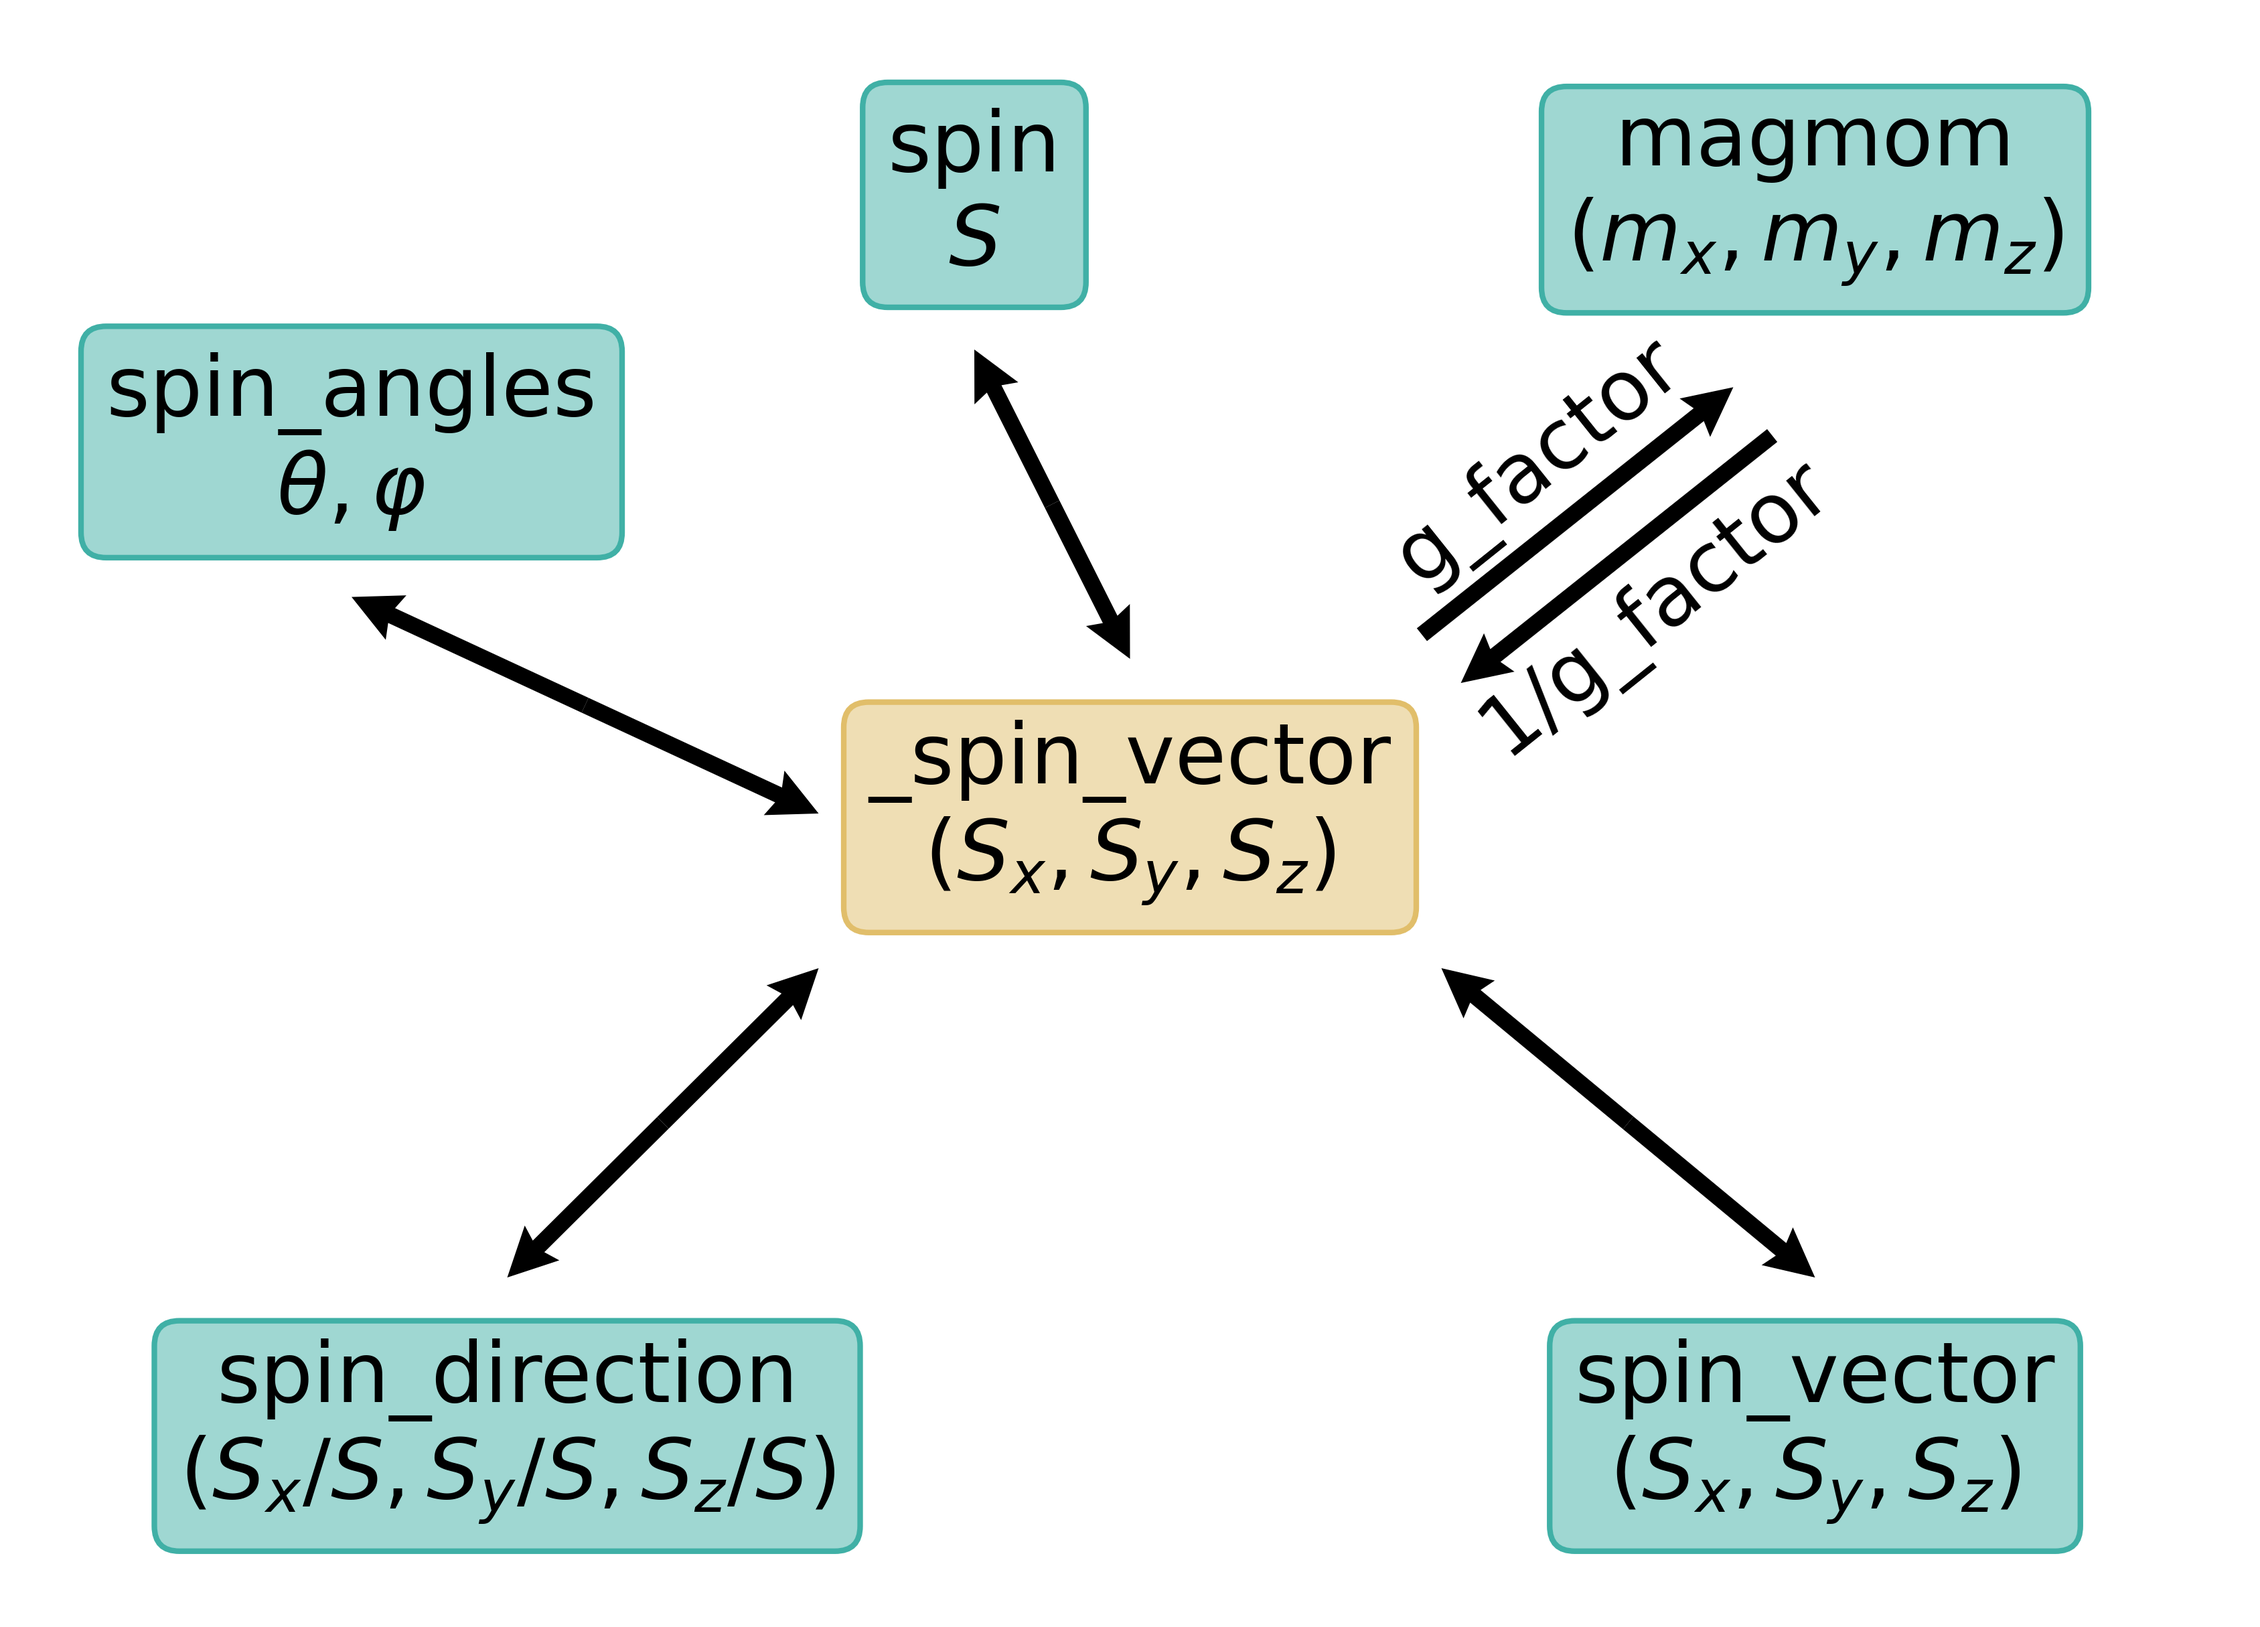
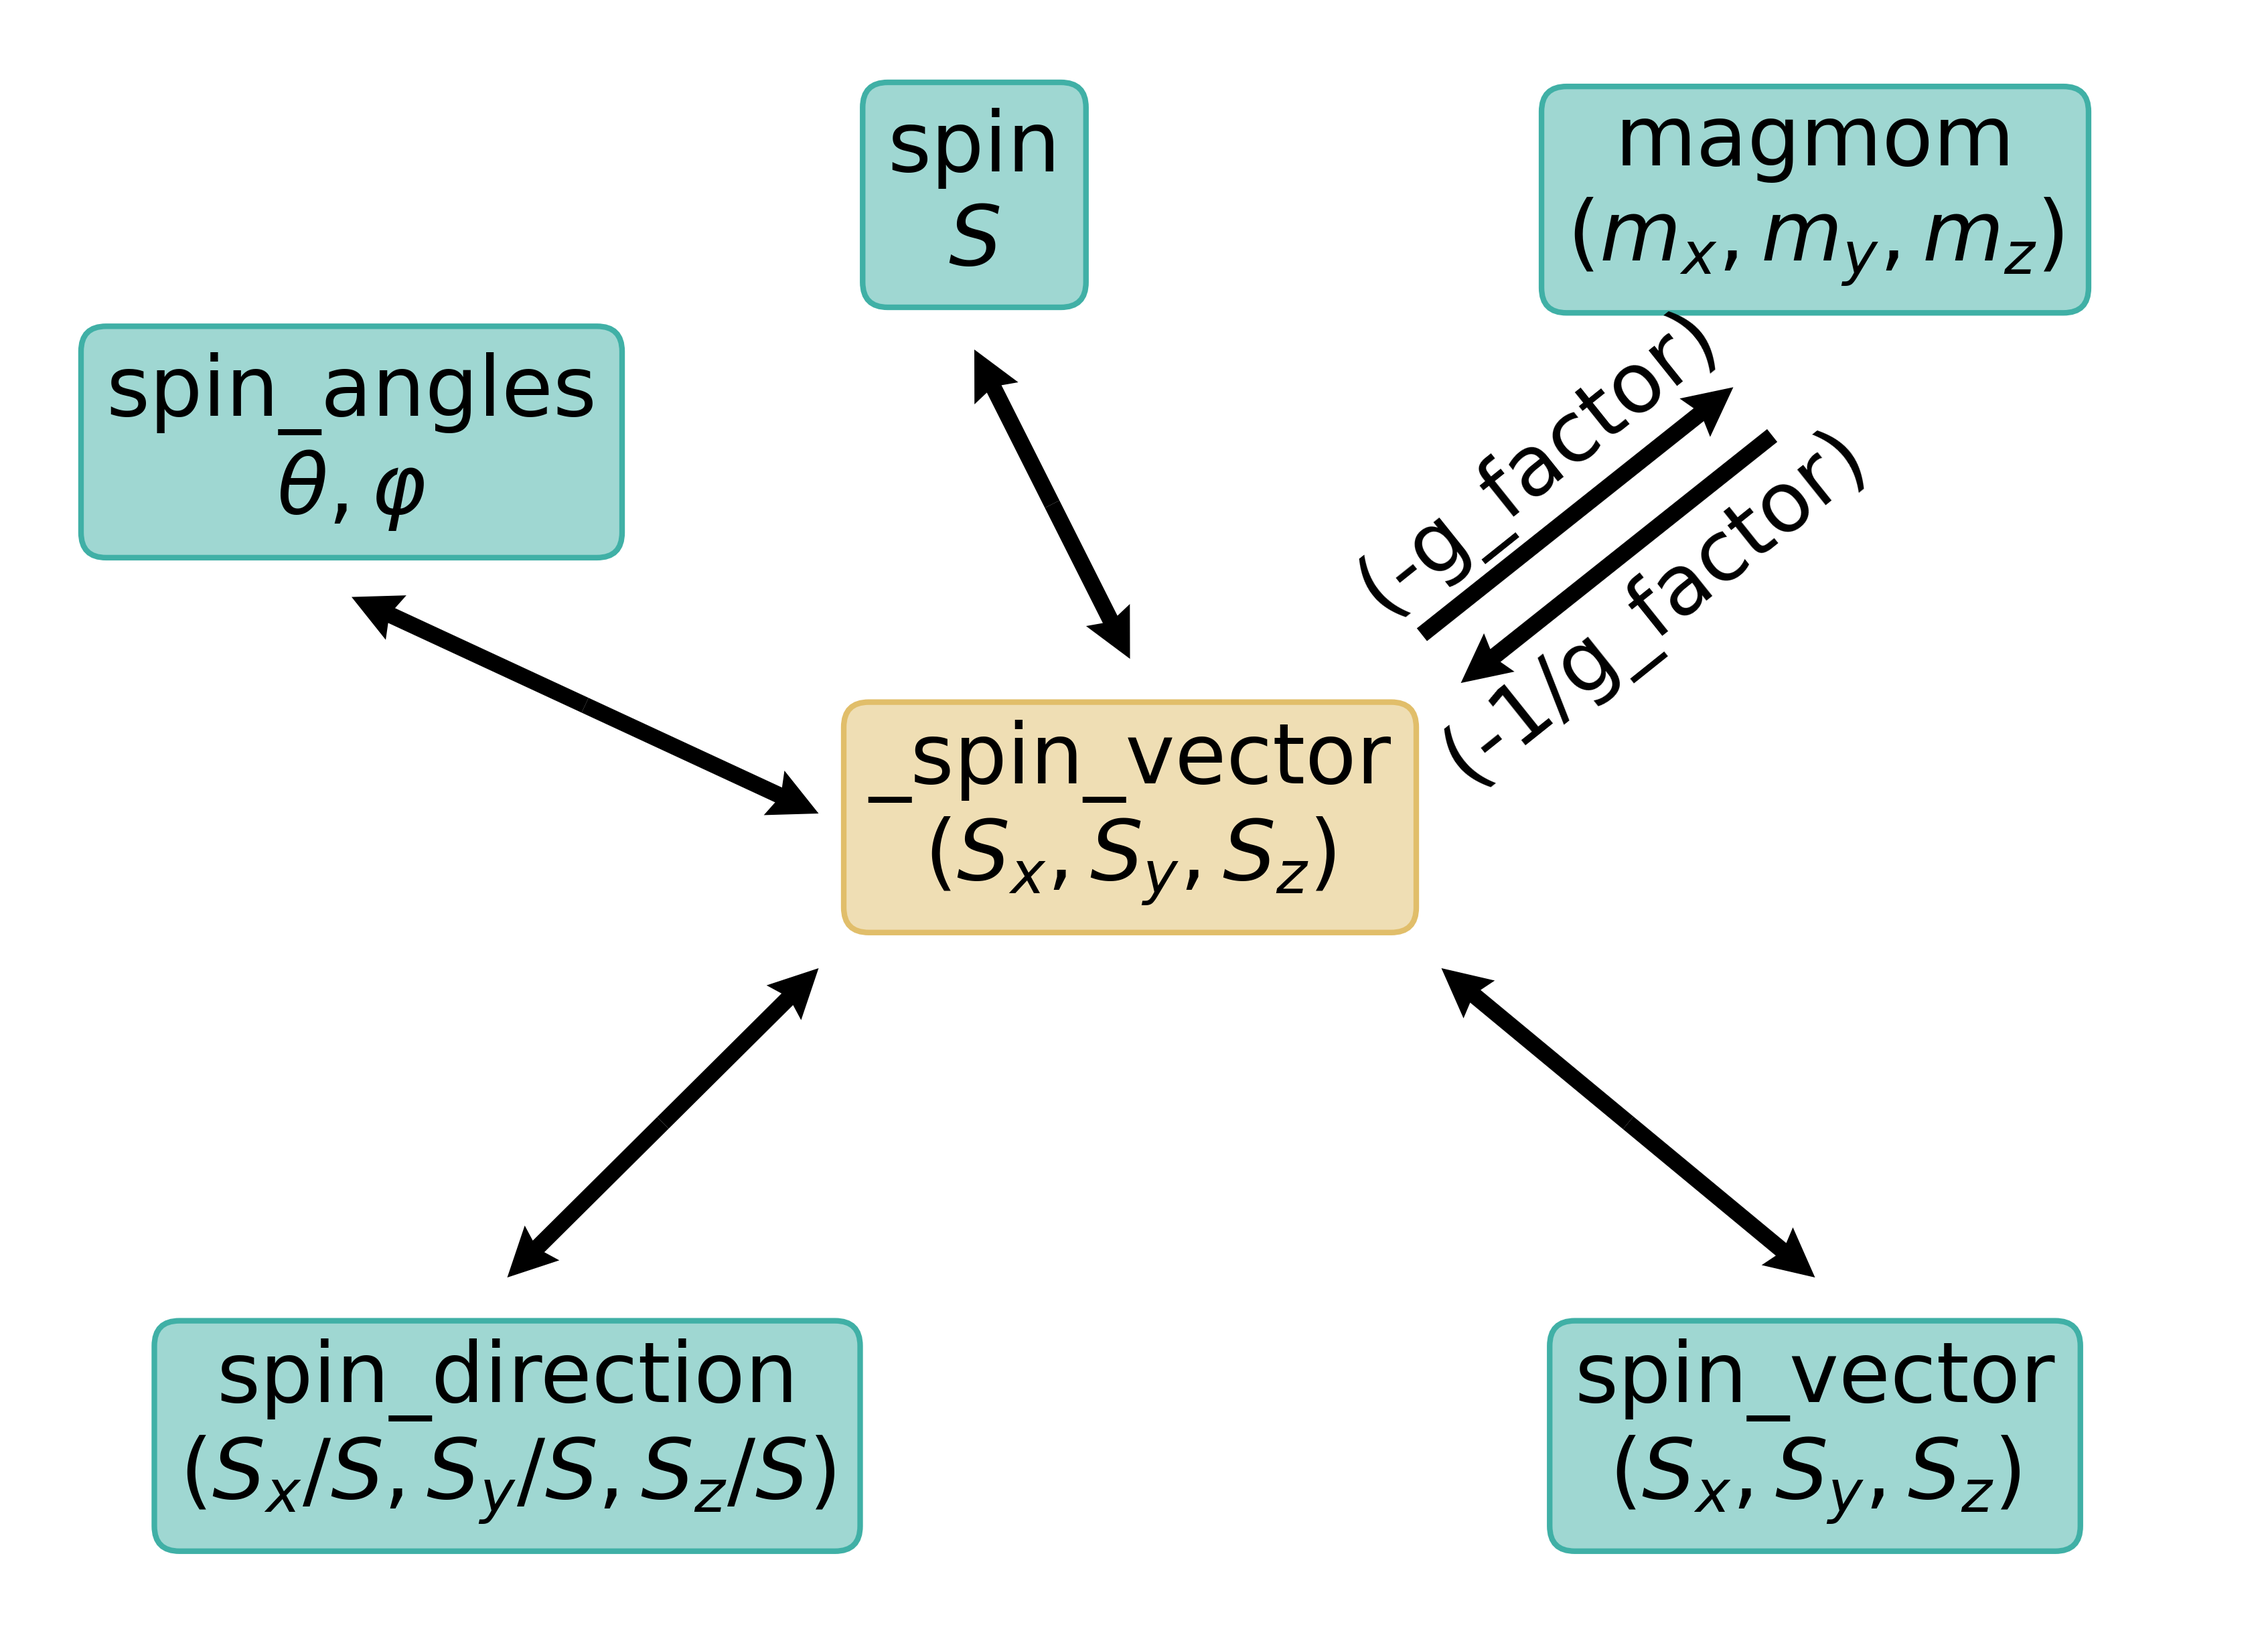
Update picture about magnetic properties of Atom

Changed region(s): [[0.6533, 0.2778, 0.8089, 0.463], [0.5911, 0.1852, 0.7467, 0.3704]]

diff --git a/tools/plot-atom-magnetic-properties.py b/tools/plot-atom-magnetic-properties.py
@@ -155,8 +155,8 @@ def main():
         30,
         10,
         8,
-        text_1="g_factor",
-        text_2="1/g_factor",
+        text_1="(-g_factor)",
+        text_2="(-1/g_factor)",
         quiver_kwargs=arrow_style,
         text_kwargs=dict(fontsize=15),
     )
